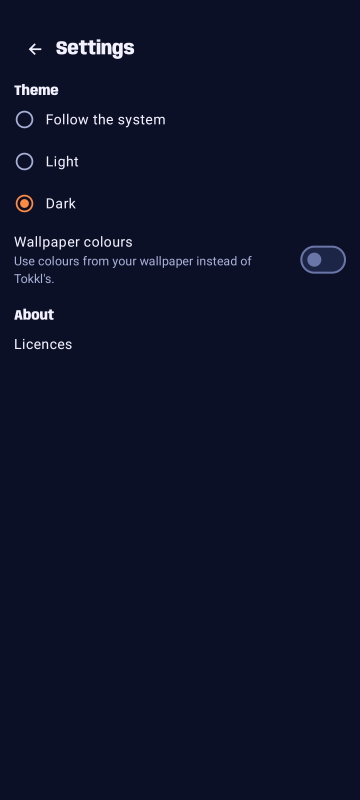
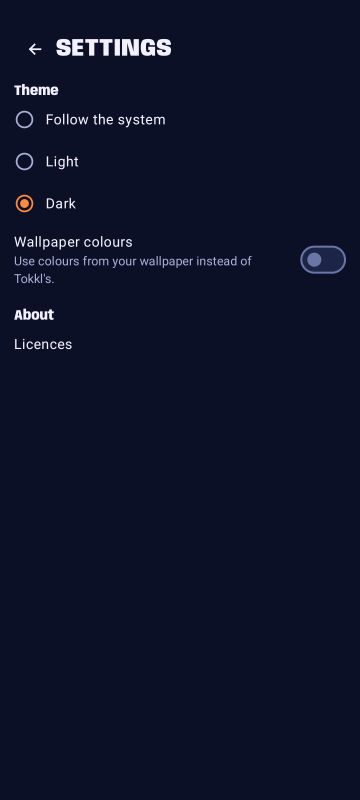
fix(ui): set every page title in the page-title role
Sign-in set its title in headlineLarge, while Settings, Licences and
Reports used headlineMedium, 22sp Anybody 800. All four were sentence
case. Tokkl's web sets page titles in Anybody 900 capitals.

ui/PageTitle draws a title in the page-title role, 28sp Anybody 900 with
0.02em tracking, in capitals. Its semantics modifier sits outside Text's
own, so the node's text stays the sentence-case string resource and
TalkBack reads "Settings", not "SETTINGS", as a heading. The tests that
find a title by its sentence-case text and heading role still pass, so
they check that. Home already shows the Brand as its heading. Reports
landed after this ticket was written and gets the same title.

References re-recorded, each for the capitalised, larger title: sign-in
with API token and with email, Settings, Licences and Reports, light and
dark, at 100% and 200%. Nothing below the titles moved.

Refs: TKA-0118

Changed region(s): [[0.1528, 0.0312, 0.4889, 0.0938]]

diff --git a/app/src/main/java/com/github/e0ipso/tokkl/signin/SignInScreen.kt b/app/src/main/java/com/github/e0ipso/tokkl/signin/SignInScreen.kt
@@ -30,7 +30,6 @@ import androidx.compose.ui.platform.LocalSoftwareKeyboardController
 import androidx.compose.ui.res.pluralStringResource
 import androidx.compose.ui.res.stringResource
 import androidx.compose.ui.semantics.LiveRegionMode
-import androidx.compose.ui.semantics.heading
 import androidx.compose.ui.semantics.liveRegion
 import androidx.compose.ui.semantics.semantics
 import androidx.compose.ui.text.input.ImeAction
@@ -41,6 +40,7 @@ import com.github.e0ipso.tokkl.trust.CertificatePrompt
 import com.github.e0ipso.tokkl.trust.CleartextWarning
 import com.github.e0ipso.tokkl.ui.Brand
 import com.github.e0ipso.tokkl.ui.BrandSize
+import com.github.e0ipso.tokkl.ui.PageTitle
 import com.github.e0ipso.tokkl.ui.RadioOptionRow
 import com.github.e0ipso.tokkl.ui.theme.ScrollingScreenInsets
 import com.github.e0ipso.tokkl.ui.theme.TokklTheme
@@ -133,11 +133,7 @@ private fun SignInForm(
             verticalArrangement = Arrangement.spacedBy(TokklTheme.spacing.space4),
         ) {
             Brand(BrandSize.LARGE, Modifier.align(Alignment.CenterHorizontally))
-            Text(
-                text = stringResource(R.string.sign_in_title),
-                style = MaterialTheme.typography.headlineLarge,
-                modifier = Modifier.semantics { heading() },
-            )
+            PageTitle(stringResource(R.string.sign_in_title))
             OutlinedTextField(
                 value = state.serverUrl,
                 onValueChange = onServerUrlChange,

diff --git a/app/src/main/java/com/github/e0ipso/tokkl/reports/ReportsScreen.kt b/app/src/main/java/com/github/e0ipso/tokkl/reports/ReportsScreen.kt
@@ -43,6 +43,7 @@ import androidx.lifecycle.compose.LocalLifecycleOwner
 import com.github.e0ipso.tokkl.R
 import com.github.e0ipso.tokkl.session.AccountSettings
 import com.github.e0ipso.tokkl.time.AccountTime
+import com.github.e0ipso.tokkl.ui.PageTitle
 import com.github.e0ipso.tokkl.ui.theme.ScrollingScreenInsets
 import com.github.e0ipso.tokkl.ui.theme.TokklTheme
 import com.github.e0ipso.tokkl.ui.theme.screenContent
@@ -118,11 +119,7 @@ internal fun ReportsContent(
                 IconButton(onClick = onBack) {
                     Icon(painterResource(R.drawable.ic_arrow_back), contentDescription = stringResource(R.string.back))
                 }
-                Text(
-                    text = stringResource(R.string.reports),
-                    style = MaterialTheme.typography.headlineMedium,
-                    modifier = Modifier.semantics { heading() },
-                )
+                PageTitle(stringResource(R.string.reports))
             }
             Spacer(Modifier.height(TokklTheme.spacing.underTopBar))
             ReportTabs()

diff --git a/app/src/main/java/com/github/e0ipso/tokkl/ui/PageTitle.kt b/app/src/main/java/com/github/e0ipso/tokkl/ui/PageTitle.kt
@@ -1,0 +1,28 @@
+package com.github.e0ipso.tokkl.ui
+
+import androidx.compose.material3.Text
+import androidx.compose.runtime.Composable
+import androidx.compose.ui.Modifier
+import androidx.compose.ui.semantics.heading
+import androidx.compose.ui.semantics.semantics
+import androidx.compose.ui.semantics.text
+import androidx.compose.ui.text.AnnotatedString
+import com.github.e0ipso.tokkl.ui.theme.TokklTheme
+
+/**
+ * A screen's title in the page-title role, 28sp Anybody 900 in capitals, as Tokkl's web sets
+ * them. The capitals are drawn, not read: TalkBack gets [text] as given, in sentence case, as a
+ * heading. Keep the string resource in sentence case.
+ */
+@Composable
+fun PageTitle(text: String, modifier: Modifier = Modifier) {
+    Text(
+        text = text.uppercase(),
+        style = TokklTheme.pageTitleTextStyle,
+        // This modifier sits outside Text's own semantics, so its text replaces the capitals.
+        modifier = modifier.semantics {
+            this.text = AnnotatedString(text)
+            heading()
+        },
+    )
+}

diff --git a/app/src/main/java/com/github/e0ipso/tokkl/settings/SettingsScreen.kt b/app/src/main/java/com/github/e0ipso/tokkl/settings/SettingsScreen.kt
@@ -35,6 +35,7 @@ import androidx.compose.ui.semantics.heading
 import androidx.compose.ui.semantics.semantics
 import androidx.compose.ui.unit.dp
 import com.github.e0ipso.tokkl.R
+import com.github.e0ipso.tokkl.ui.PageTitle
 import com.github.e0ipso.tokkl.ui.RadioOptionRow
 import com.github.e0ipso.tokkl.ui.theme.ScrollingScreenInsets
 import com.github.e0ipso.tokkl.ui.theme.TokklTheme
@@ -92,11 +93,7 @@ internal fun SettingsContent(
                         contentDescription = stringResource(R.string.back),
                     )
                 }
-                Text(
-                    text = stringResource(R.string.settings),
-                    style = MaterialTheme.typography.headlineMedium,
-                    modifier = Modifier.semantics { heading() },
-                )
+                PageTitle(stringResource(R.string.settings))
             }
             Spacer(Modifier.height(TokklTheme.spacing.underTopBar))
             ThemeSection(settings, showDynamicColor, onModeChange, onDynamicColorChange)

diff --git a/app/src/main/java/com/github/e0ipso/tokkl/licences/LicencesScreen.kt b/app/src/main/java/com/github/e0ipso/tokkl/licences/LicencesScreen.kt
@@ -29,6 +29,7 @@ import androidx.compose.ui.semantics.semantics
 import androidx.compose.ui.semantics.text
 import androidx.compose.ui.text.AnnotatedString
 import com.github.e0ipso.tokkl.R
+import com.github.e0ipso.tokkl.ui.PageTitle
 import com.github.e0ipso.tokkl.ui.theme.ScrollingScreenInsets
 import com.github.e0ipso.tokkl.ui.theme.TokklTheme
 import com.github.e0ipso.tokkl.ui.theme.screenContent
@@ -60,11 +61,7 @@ fun LicencesScreen(onBack: () -> Unit, modifier: Modifier = Modifier) {
                         contentDescription = stringResource(R.string.back),
                     )
                 }
-                Text(
-                    text = stringResource(R.string.licences),
-                    style = MaterialTheme.typography.headlineMedium,
-                    modifier = Modifier.semantics { heading() },
-                )
+                PageTitle(stringResource(R.string.licences))
             }
             Spacer(Modifier.height(TokklTheme.spacing.underTopBar))
             Text(
